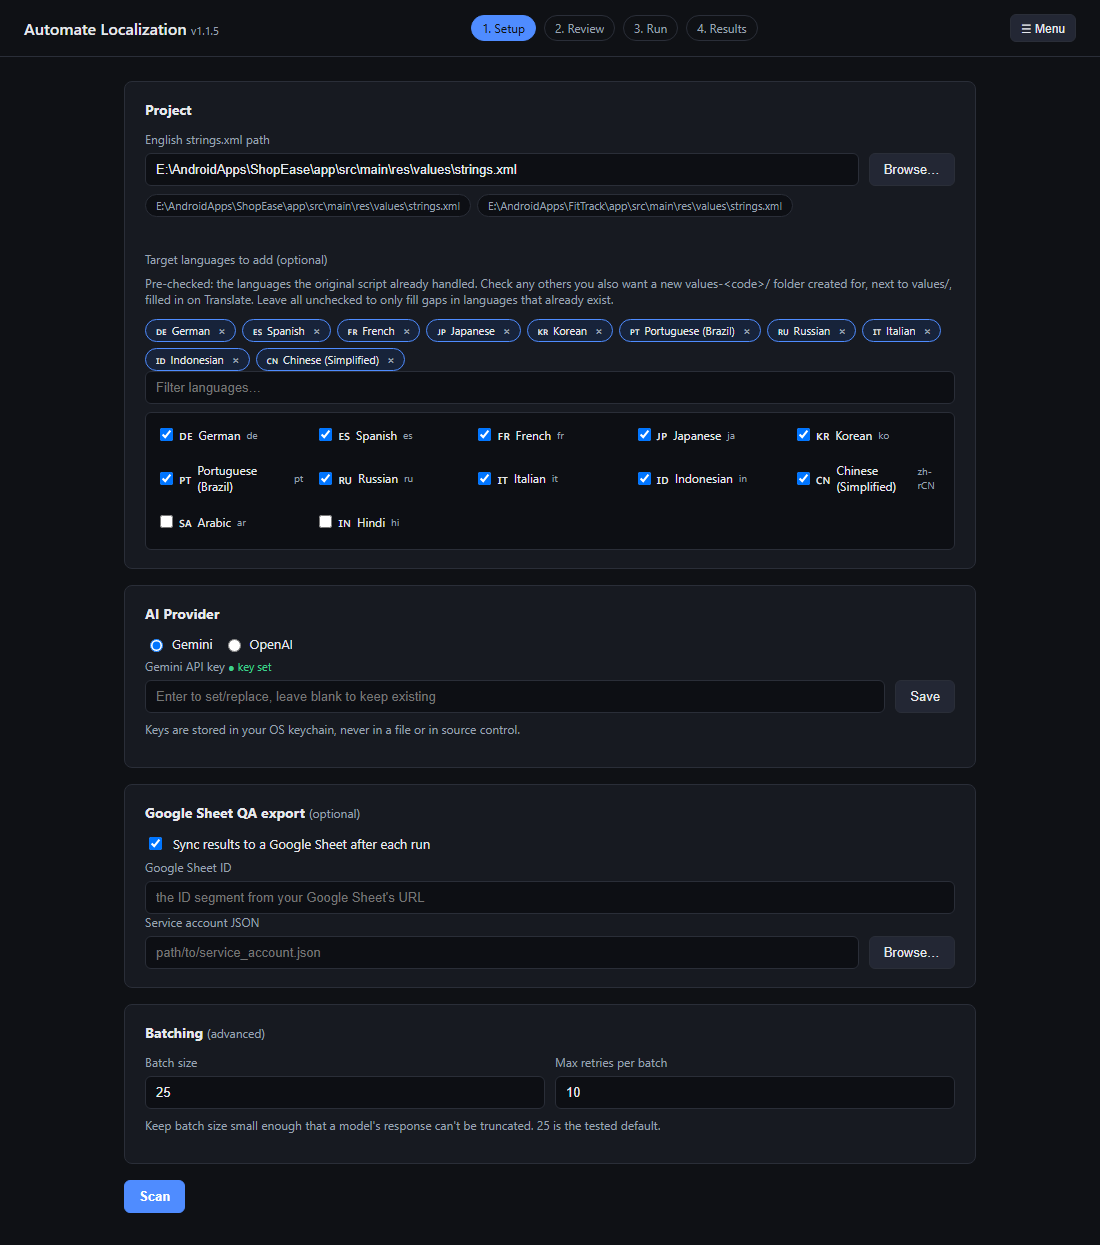
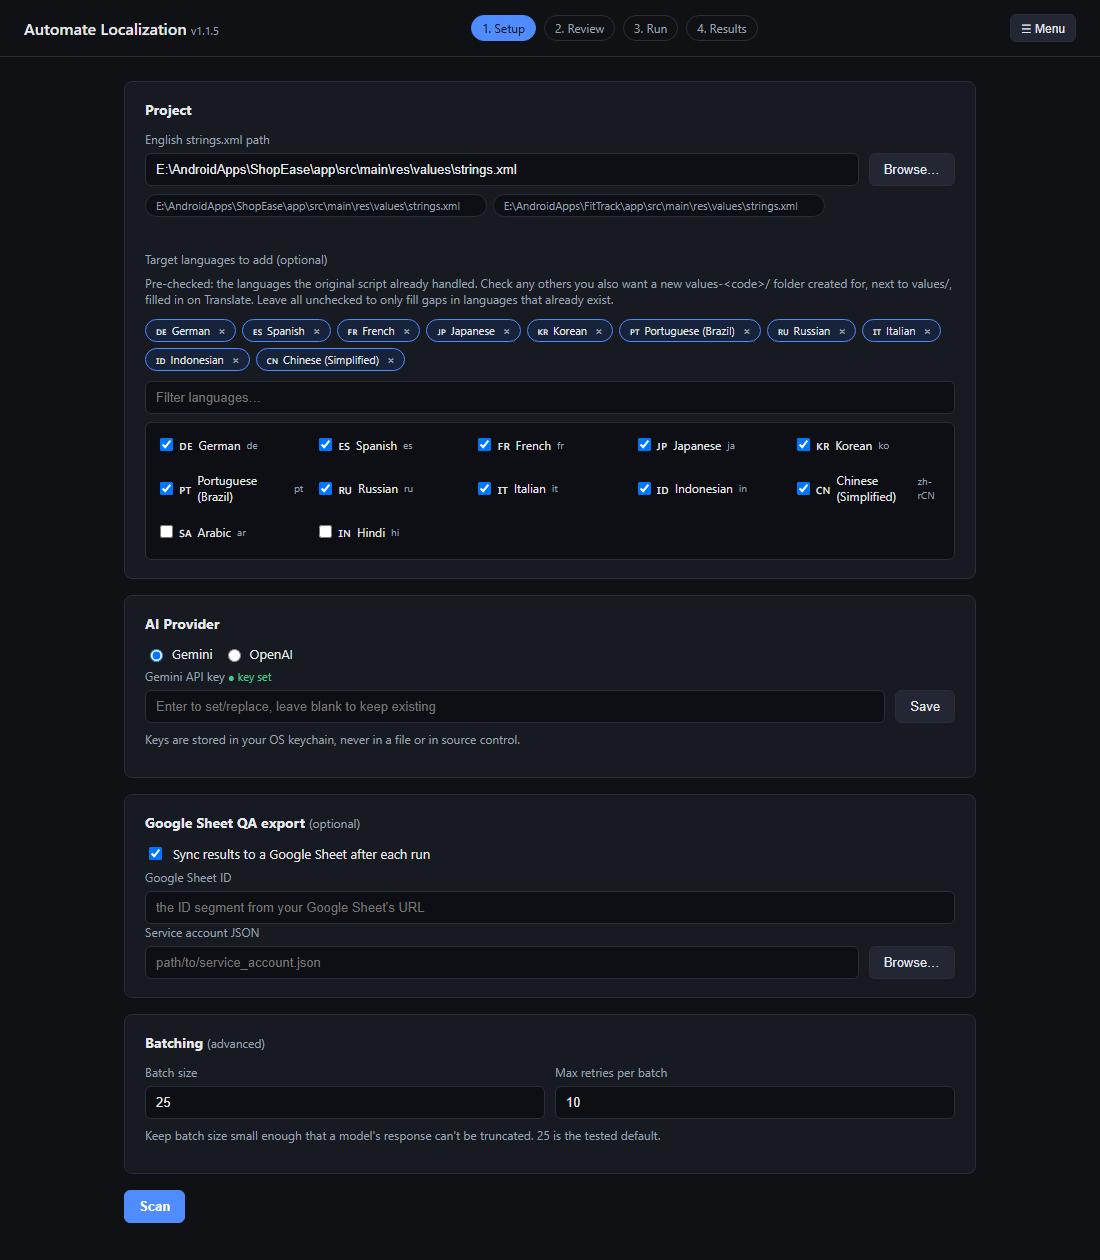
Add spacing below selected-languages chips, removable recent paths
.lang-selected-list gets margin-bottom so it doesn't sit flush against the
language filter box below it.

Each recent-path chip now shows a hover-revealed x to remove it
individually, backed by a new Api.remove_recent_path() ->
config.remove_recent_path(). Click handler stops propagation so removing
a chip doesn't also fill the path input with it.

diff --git a/app/web/style.css b/app/web/style.css
@@ -149,10 +149,17 @@ input:focus { outline: none; border-color: var(--accent); }
 
 .recent-paths { margin-top: 8px; display: flex; flex-wrap: wrap; gap: 6px; }
 .recent-path-chip {
+  display: inline-flex; align-items: center; gap: 6px;
   font-size: 11px; color: var(--text-dim); background: #0d0f14;
-  border: 1px solid var(--border); border-radius: 999px; padding: 3px 10px; cursor: pointer;
+  border: 1px solid var(--border); border-radius: 999px; padding: 3px 8px 3px 10px; cursor: pointer;
 }
 .recent-path-chip:hover { color: var(--text); border-color: var(--accent); }
+.recent-path-remove {
+  visibility: hidden; opacity: 0; color: var(--text-dim); font-weight: 700; line-height: 1;
+  padding: 0 2px; border-radius: 3px; transition: opacity 0.12s;
+}
+.recent-path-chip:hover .recent-path-remove { visibility: visible; opacity: 1; }
+.recent-path-remove:hover { color: var(--err); }
 
 .actions { display: flex; justify-content: space-between; align-items: center; gap: 10px; margin-top: 8px; }
 
@@ -215,7 +222,7 @@ tbody tr:last-child td { border-bottom: none; }
 .lang-chip .lang-code { color: var(--text-dim); font-size: 10px; }
 .lang-chip.hidden { display: none; }
 
-.lang-selected-list { margin-top: 8px; display: flex; flex-wrap: wrap; gap: 6px; }
+.lang-selected-list { margin-top: 8px; margin-bottom: 10px; display: flex; flex-wrap: wrap; gap: 6px; }
 .selected-lang-chip {
   display: inline-flex; align-items: center; gap: 5px; font-size: 11px; color: var(--text);
   background: #17233a; border: 1px solid var(--accent); border-radius: 999px; padding: 3px 6px 3px 10px;

diff --git a/app/web/app.js b/app/web/app.js
@@ -29,18 +29,28 @@ function escapeHtml(s) {
 
 // --- Setup screen ------------------------------------------------------
 
+function renderRecentPaths(paths) {
+  const recentDiv = document.getElementById("recent-paths");
+  recentDiv.innerHTML = "";
+  (paths || []).forEach(p => {
+    const chip = document.createElement("span");
+    chip.className = "recent-path-chip";
+    chip.innerHTML = `<span class="recent-path-text"></span><span class="recent-path-remove" title="Remove">×</span>`;
+    chip.querySelector(".recent-path-text").textContent = p;
+    chip.addEventListener("click", () => { document.getElementById("path-input").value = p; });
+    chip.querySelector(".recent-path-remove").addEventListener("click", async (e) => {
+      e.stopPropagation();
+      await api().remove_recent_path(p);
+      renderRecentPaths((paths || []).filter(x => x !== p));
+    });
+    recentDiv.appendChild(chip);
+  });
+}
+
 async function loadSettings() {
   const s = await api().get_settings();
 
-  const recentDiv = document.getElementById("recent-paths");
-  recentDiv.innerHTML = "";
-  (s.recent_paths || []).forEach(p => {
-    const chip = document.createElement("span");
-    chip.className = "recent-path-chip";
-    chip.textContent = p;
-    chip.onclick = () => { document.getElementById("path-input").value = p; };
-    recentDiv.appendChild(chip);
-  });
+  renderRecentPaths(s.recent_paths);
 
   document.querySelector(`input[name="provider"][value="${s.last_provider}"]`).checked = true;
   updateProviderVisibility();

diff --git a/scripts/demo_setup.html b/scripts/demo_setup.html
@@ -165,10 +165,11 @@ window.pywebview = { api: {
     has_gemini_key: true, has_openai_key: false,
   }),
   get_language_options: async () => LANG_OPTIONS,
-  get_app_version: async () => "1.1.5",
+  get_app_version: async () => "1.1.6",
   check_for_update: async () => ({ ok: true }),
   poll_events: async () => [],
   save_settings: async () => ({ ok: true }),
+  remove_recent_path: async () => ({ ok: true }),
 }};
 init();
 document.getElementById("path-input").value = "E:\\AndroidApps\\ShopEase\\app\\src\\main\\res\\values\\strings.xml";

diff --git a/scripts/demo_review.html b/scripts/demo_review.html
@@ -12,7 +12,7 @@
 </head>
 <body>
 <header class="topbar">
-  <h1>Automate Localization <span id="app-version" class="app-version">v1.1.5</span></h1>
+  <h1>Automate Localization <span id="app-version" class="app-version">v1.1.6</span></h1>
   <nav class="steps">
     <span class="step done" data-step="setup">1. Setup</span>
     <span class="step active" data-step="review">2. Review</span>

diff --git a/scripts/demo_results.html b/scripts/demo_results.html
@@ -12,7 +12,7 @@
 </head>
 <body>
 <header class="topbar">
-  <h1>Automate Localization <span id="app-version" class="app-version">v1.1.5</span></h1>
+  <h1>Automate Localization <span id="app-version" class="app-version">v1.1.6</span></h1>
   <nav class="steps">
     <span class="step done" data-step="setup">1. Setup</span>
     <span class="step done" data-step="review">2. Review</span>

diff --git a/app/main.py b/app/main.py
@@ -78,6 +78,12 @@ class Api:
         config.save_config(cfg)
         return {"ok": True}
 
+    def remove_recent_path(self, path):
+        cfg = config.load_config()
+        config.remove_recent_path(cfg, path)
+        config.save_config(cfg)
+        return {"ok": True}
+
     def set_api_key(self, provider, key):
         if not key:
             config.delete_api_key(provider)

diff --git a/app/config.py b/app/config.py
@@ -87,6 +87,11 @@ def add_recent_path(cfg, path):
     return cfg
 
 
+def remove_recent_path(cfg, path):
+    cfg["recent_paths"] = [p for p in cfg.get("recent_paths", []) if p != path]
+    return cfg
+
+
 # --- API keys (OS keychain, never in config.json / never in source) --------
 
 def get_api_key(provider):

diff --git a/app/version.py b/app/version.py
@@ -2,4 +2,4 @@
 git tag/GitHub Release when cutting a new release -- updater.py compares
 this against the latest GitHub release tag to decide if an update exists."""
 
-APP_VERSION = "1.1.5"
+APP_VERSION = "1.1.6"

diff --git a/HANDOFF.md b/HANDOFF.md
@@ -269,3 +269,11 @@ The real fix isn't a smarter way to call `window.evaluate_js()` from a backgroun
 **Search filter**: `web/index.html`'s Review screen got a filter input (`#review-filter-input`) above the table, plus a `#review-filter-count` "Showing X of Y" indicator. `app.js`'s `applyReviewFilter()` does a plain case-insensitive substring match against each row's `data-key`/`data-text` (set on the `<tr>` at render time, not read back out of the DOM cells -- avoids re-parsing escaped HTML) and toggles the existing `.hidden` utility class. `select-all`/`select-none` were changed to only touch `tr[data-key]:not(.hidden)` -- deliberately scoped to whatever's currently filtered, not the full list, since silently re-selecting hidden rows the user can't see would be surprising. Verified interactively, not just by reading the code: served `app/web/` over a plain local HTTP server (`file://` renders as an inert static snapshot in this environment's browser tool -- scripts never execute, easy to mistake for a passing test), seeded a fake `scanResult` and a stub `window.pywebview.api` via the JS console, then actually typed into the filter box and clicked select/deselect through the Browser tool -- confirmed filtering by key, filtering by English text, the count indicator, and the visible-only select-all/none scoping all behave correctly, with real keyboard/click events, not synthetic function calls.
 
 **README screenshots** (`docs/screenshots/*.png`): generated, not hand-captured. `scripts/demo_setup.html`, `demo_review.html`, `demo_results.html` each duplicate the relevant slice of `index.html`'s markup with a fake `window.pywebview.api` (realistic sample paths/languages/strings) so the real, unmodified `app/web/app.js` and `style.css` render each screen without a running backend. Rendered headlessly with Edge (`msedge.exe --headless=new --screenshot=... --window-size=... <url>`, served over `python -m http.server` from the repo root so relative paths resolve) rather than relying on the Browser tool's inline screenshots, which have no way to save to a file for the repo. **Two real mistakes made while building these, worth not repeating**: (1) first attempt used `--default-background-color=00000000` (transparent) for a "clean" capture -- this corrupted nearly every text color in the PNG (headless PNG capture doesn't composite a transparent page background correctly); dropped the flag, since the page already sets its own solid `background: var(--bg)`. (2) first attempt at each demo page hand-wrote a trimmed-down `<body>` missing the menu/about-modal markup `wireMenu()`/`wireAboutModal()` expect -- `init()` threw partway through on the missing elements and silently skipped everything after (language picker, recent paths, injected path value all came out empty, with zero visible error in the screenshot itself). Fixed by copying `index.html`'s actual current markup wholesale into each demo page instead of a hand-trimmed guess at what it needed. **If `index.html`'s structure changes, these demo pages will drift out of sync silently the same way** -- there's a comment atop each one saying so; re-diff against the real `index.html` before regenerating screenshots after any structural UI change, don't assume the old copy still matches.
+
+## 23. Language-picker spacing, removable recent-path chips (v1.1.6)
+
+Two small UI requests from a screenshot the user sent (the selected-languages chip row sitting flush against the "Filter languages…" box below it): `.lang-selected-list` got `margin-bottom: 10px` in `style.css`.
+
+**Removable recent paths**: each chip in `#recent-paths` now has a hover-revealed `×` (`.recent-path-remove`, `visibility: hidden` by default, flipped on `.recent-path-chip:hover`). Clicking it calls a new `Api.remove_recent_path(path)` (`main.py` -> `config.remove_recent_path(cfg, path)`, a straightforward list-filter-and-save mirroring the existing `add_recent_path`) and re-renders the chip list client-side rather than re-fetching all of `get_settings()`. The remove click handler calls `e.stopPropagation()` -- without it, the click would bubble to the chip's own listener and fill the path input with the very path just removed. `loadSettings()`'s inline chip-building code was factored out into a standalone `renderRecentPaths(paths)` so both the initial load and a post-removal re-render use the same path.
+
+**Verified functionally, not just read the code**: with the Browser pane's screenshot compositing unavailable in that moment (a real, transient limitation of the tool, not a code issue -- came back on a later session), fell back to the same served-page-plus-JS-console technique as section 22, but purely through `javascript_tool` DOM assertions instead of `computer` clicks: confirmed both chips render with a `.recent-path-remove` child hidden by default, that a direct `.click()` on the `×` calls `remove_recent_path` with the correct path and removes exactly that chip, that doing so leaves `#path-input` untouched (proving `stopPropagation` actually works, not just present in the source), and that clicking the chip body still fills the path input as before (a regression check on existing behavior, not just the new feature). Regenerated `docs/screenshots/setup.png` afterward since the spacing change was visible in it.
